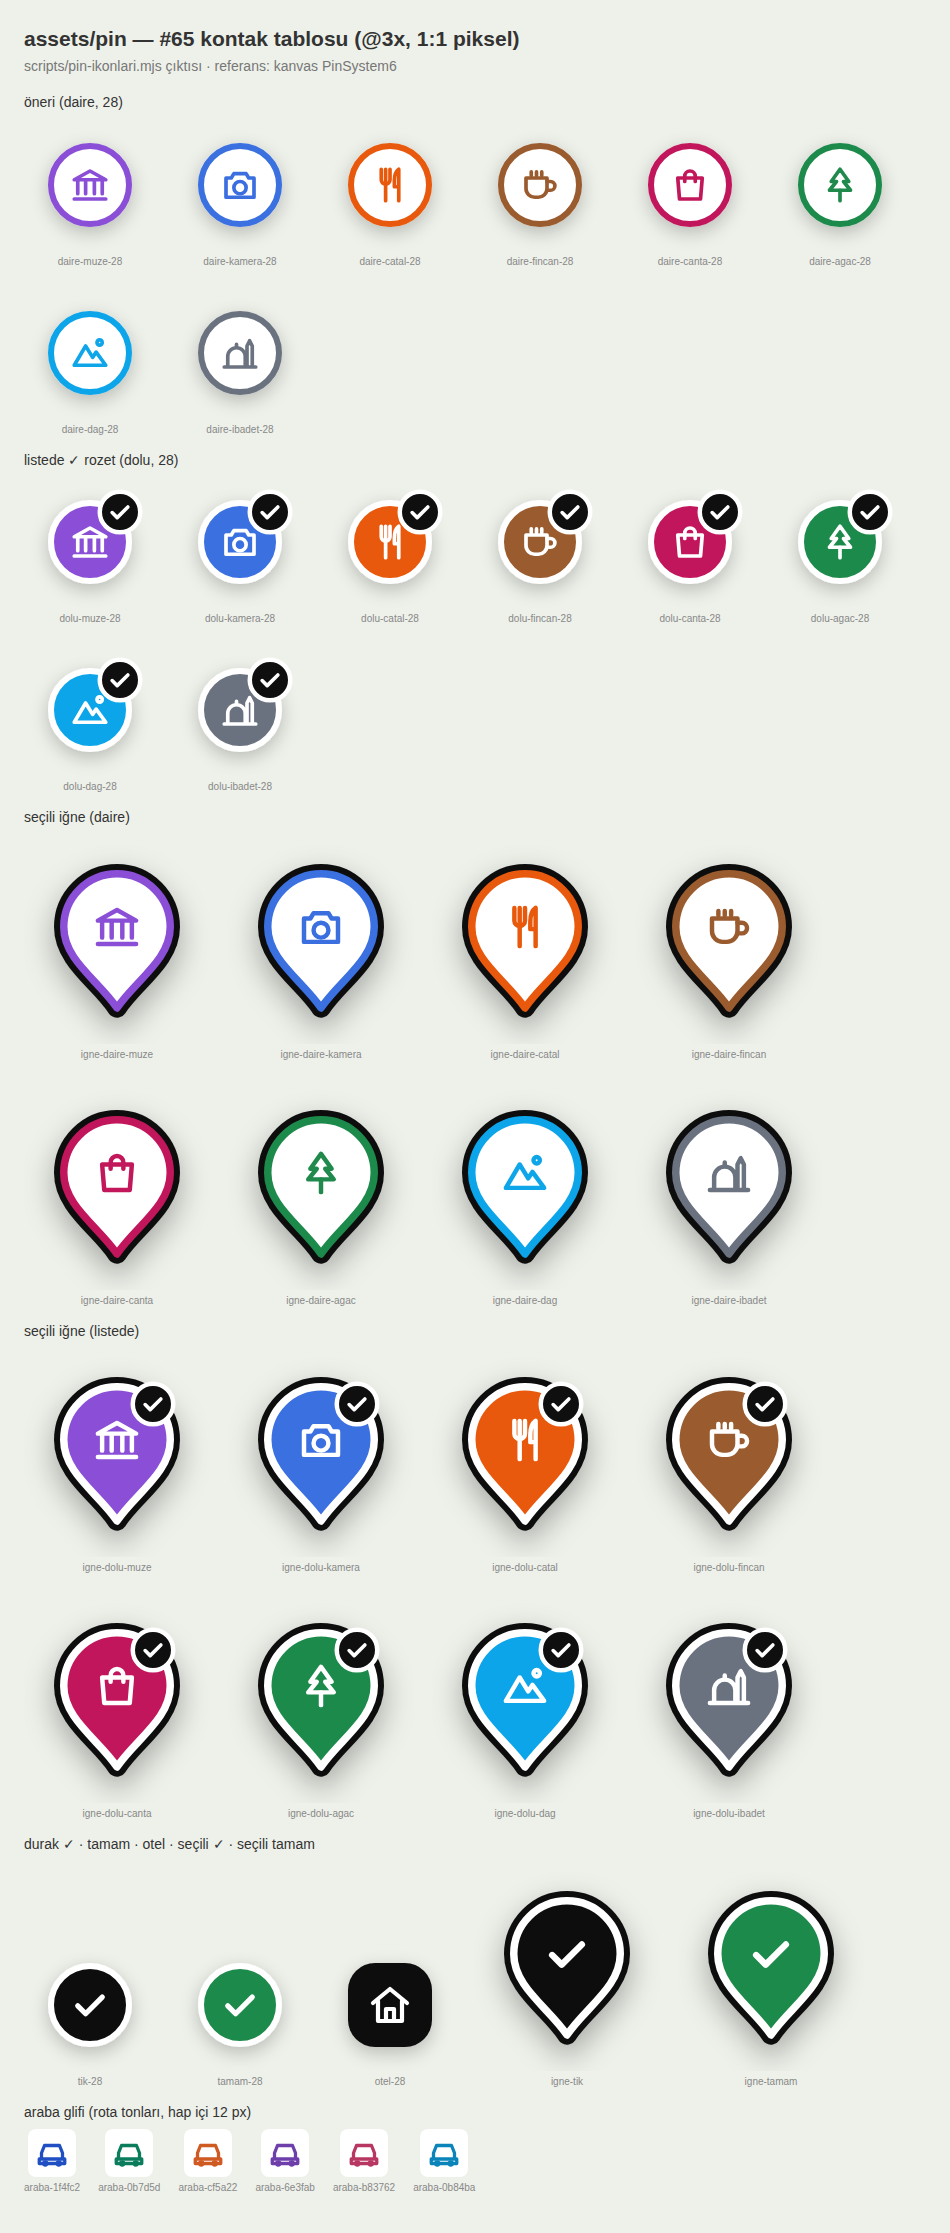
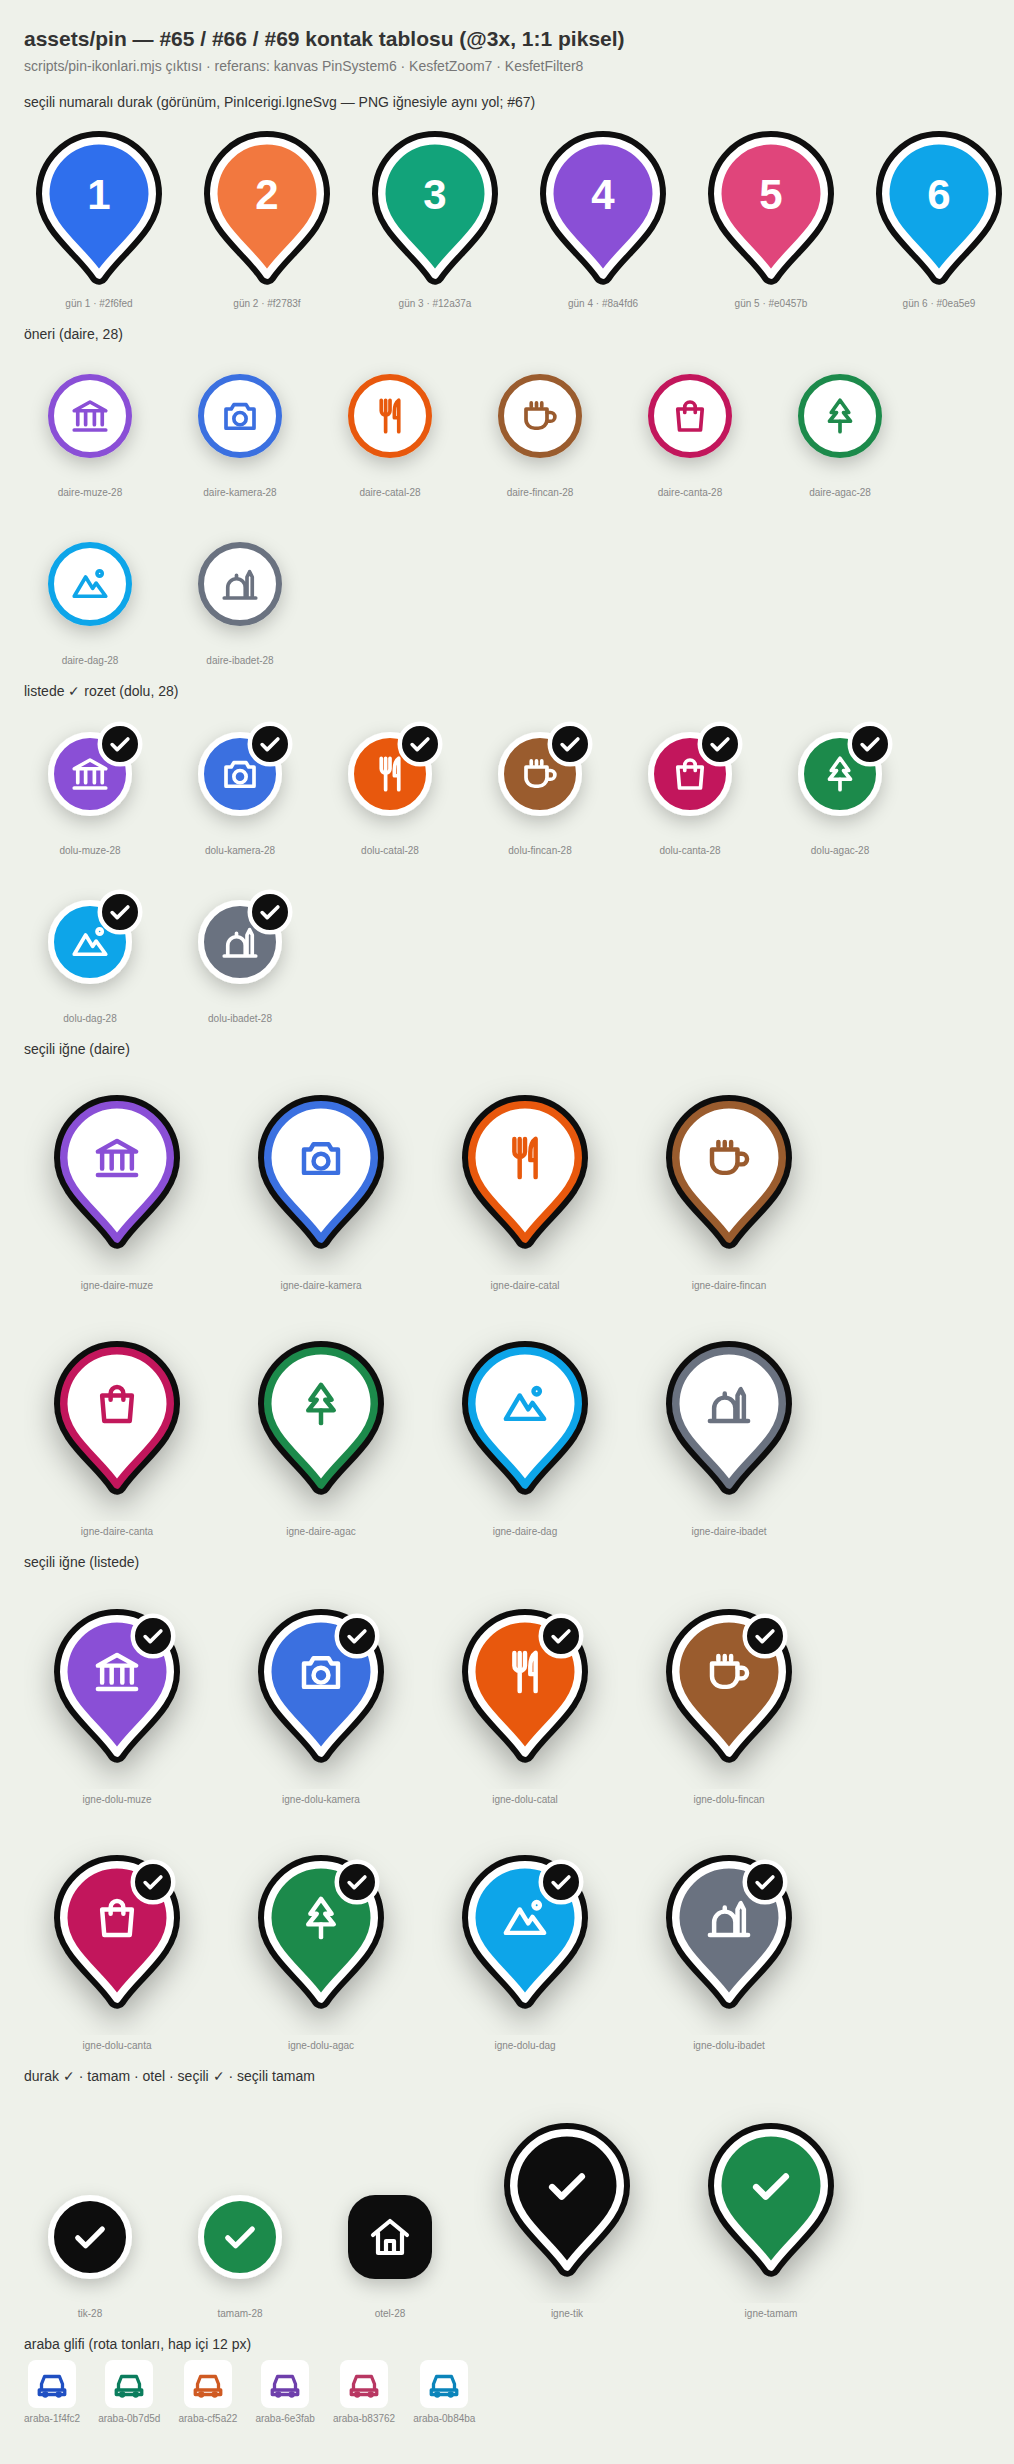
#67 incelemesi: seçili durak iğnesi SVG yol (siyah halka), web'de PNG pinler, çapa görünen uç
- 🔴1 Seçili numaralı durak: PinIcerigi.IgneSvg — PNG iğnesiyle aynı yol (siyah 6,5 + beyaz 2,5 kenar, gün rengi dolgu); kontak tablosuna eklendi
- 🔴2 Web / görünüm yedeği: PNG'si olan pinler (öneri, listede ✓, tamamlanan, otel, seçili iğne) PinIcerigi içinde aynı PNG ile çizilir (PngPin), çapa aynı
- Çapa görünen uçta (dış halka 3,25 px dahil): IGNE_CAPA 0,875; pinCapasi / pinKutusu IGNE_GORUNEN_BOY
- Uzun basma seçili iğnenin baş merkezini ölçer
- Kuş uçuşu (rota gelene kadar) gün renginde (docs/05 §3)
- Eski yorumlar temizlendi (seçili 34, taksi, 40 ok)

Refs #65

Claude-Session: https://claude.ai/code/session_01LSgStVupXYY2fpozAEjjms

diff --git a/src/components/harita/PinIcerigi.tsx b/src/components/harita/PinIcerigi.tsx
@@ -1,11 +1,12 @@
 import { Image, StyleSheet, Text, View, type ImageRequireSource } from 'react-native';
+import Svg, { Path } from 'react-native-svg';
 
 import { Ikon, type IkonAdi } from '@/components/ui/Ikon';
 import { yorumKisa } from '@/lib/pinIkonu';
 import { puanMetni } from '@/lib/puan';
 import { renk, yazi } from '@/theme';
 
-import { etiketYuksekligi, IGNE, kisaAd, KONUM_HALKA, OTEL_KARE, pinCapi } from './geo';
+import { etiketYuksekligi, IGNE, IGNE_GORUNEN_BOY, kisaAd, KONUM_HALKA, OTEL_KARE, pinCapi } from './geo';
 import { PIN_IKONLARI, pinIkonuAnahtari, pinIkonuPng } from './pinIkonlari';
 import type { HaritaPini } from './tipler';
 
@@ -53,6 +54,42 @@ export function pinGorseli(pin: HaritaPini): ImageRequireSource | undefined {
   return PIN_IKONLARI[`${on}daire-${pin.ikon ?? 'kamera'}${son}`];
 }
 
+/** İğne SVG'sinin yerleşim kutusundan dışa payı (siyah halka + küçük gölge). */
+const IGNE_PAY = 6;
+/**
+ * #67 🔴1: iğne yolu — scripts/pin-ikonlari.mjs ile aynı (r 17,75 baş + uca inen damla), önce siyah 6,5 px, üstüne 2,5 px beyaz kenar.
+ * Yerleşim kutusu IGNE.en × IGNE_GORUNEN_BOY (uç + halka); SVG payı dışa taşar.
+ */
+function IgneSvg({ dolgu }: { dolgu: string }) {
+  const kenar = 2.5;
+  const W = IGNE.en + 2 * IGNE_PAY;
+  const H = IGNE.boy + 2 * IGNE_PAY;
+  const cx = W / 2;
+  const bas = IGNE_PAY + IGNE.en / 2;
+  const uc = IGNE_PAY + IGNE.boy;
+  const r = IGNE.en / 2 - kenar / 2;
+  const yol = `M${cx} ${uc} C${cx - 6} ${uc - 9} ${cx - r} ${bas + 11} ${cx - r} ${bas} a${r} ${r} 0 1 1 ${2 * r} 0 C${cx + r} ${bas + 11} ${cx + 6} ${uc - 9} ${cx} ${uc} Z`;
+  return (
+    <Svg width={W} height={H} viewBox={`0 0 ${W} ${H}`} style={s.igneSvg} pointerEvents="none">
+      <Path d={yol} fill={dolgu} stroke={renk.metin} strokeWidth={kenar + 4} strokeLinejoin="round" />
+      <Path d={yol} fill={dolgu} stroke={renk.zemin} strokeWidth={kenar} strokeLinejoin="round" />
+    </Svg>
+  );
+}
+
+/** PNG kenar payları (scripts/pin-ikonlari.mjs PAD / IGNE_PAD). */
+const PNG_PAD = 8;
+const PNG_IGNE_PAD = 12;
+/** #67 🔴2: tam pin PNG'si görünüm içinde — yerleşim kutusu daire (cap) ya da iğne ölçüsünde, pay negatif kenar boşluğuyla taşar. */
+function PngPin({ gorsel, secili, cap, onYuklendi }: { gorsel: ImageRequireSource; secili: boolean; cap: number; onYuklendi?: () => void }) {
+  const pay = secili ? PNG_IGNE_PAD : PNG_PAD;
+  const en = (secili ? IGNE.en : cap) + 2 * pay;
+  const boy = (secili ? IGNE.boy : cap) + 2 * pay;
+  // İğnede görünen uç halkayla IGNE.halka kadar aşağıda: alt kenar boşluğu o kadar az negatif → kutu IGNE_GORUNEN_BOY.
+  const altPay = secili ? -(pay - IGNE.halka) : -pay;
+  return <Image source={gorsel} style={{ width: en, height: boy, marginHorizontal: -pay, marginTop: -pay, marginBottom: altPay }} fadeDuration={0} onLoad={onYuklendi} />;
+}
+
 /**
  * Pin içi ikon önceden üretilmiş PNG (assets/pin, scripts/pin-ikonlari.mjs) — Android işaretçi bitmap'ini alırken
  * SVG'nin çizilmesini beklemek gerekmez; `onYuklendi` görüntü yüklenince PNG anahtarıyla çağrılır. PNG yoksa SVG.
@@ -64,10 +101,10 @@ function PinIkonu({ ad, renk: r, boyut, kalinlik, onYuklendi }: { ad: IkonAdi; r
 }
 
 /**
- * Pin görünümleri (#53, 7 Ekim mockup; #59 §A2 ölçüler): 28 px daire (seçili 34) + ALTINDA kısa ad (+ ★ puan · yorum
+ * Pin görünümleri (#53, 7 Ekim mockup; #59 §A2 ölçüler): 28 px daire (#65: seçili iğne 38 × 46) + ALTINDA kısa ad (+ ★ puan · yorum
  * satırı, `detay`). durak = gün renginde daire + sıra numarası · listede = siyah daire + ✓ · oneri / bos = beyaz daire,
  * kategori renginde kenar ve ikon · seçili = siyah halka · otel = siyah kare + ev · aday (3.3) = beyaz hap "★ puan · ad" ·
- * etiket (#33) = küçük beyaz hap (taksi bacağı süresi). `etiketGizli` çakışma kuralıyla gelir (geo.gizliEtiketler).
+ * etiket (#33) = küçük beyaz hap (araba bacağı süresi). `etiketGizli` çakışma kuralıyla gelir (geo.gizliEtiketler).
  * `onYuklendi(pngAnahtari)`: içerikteki PNG ikon yüklendi (Android bitmap yakalaması için, Harita.native).
  */
 export function PinIcerigi({
@@ -132,18 +169,24 @@ export function PinIcerigi({
   const puan = puanMetni(pin.puan);
   const yorum = yorumKisa(pin.yorumSayisi);
   const kRenk = pin.kategoriRenk ?? renk.metin;
+  const gorsel = pinGorseli(pin);
   return (
     <View style={[s.sutun, durt && s.durtme]} collapsable={false}>
       {yalnizEtiket ? (
         // Daire ayrı image işaretçisinde: dairenin yerinde boşluk; seçili iğnede etiket doğrudan ucun altında (çapa uç).
         pin.secili ? null : <View style={{ width: cap, height: cap }} />
+      ) : gorsel ? (
+        // #67 incelemesi 🔴2: PNG'si olan pin (öneri / listede / tamamlanan / otel) web'de ve native yedekte aynı PNG ile çizilir —
+        // kenar payı (gölge, rozet) negatif kenar boşluğuyla taşar; yerleşim kutusu daire / iğne ölçüsünde kalır (çapa aynı).
+        <PngPin gorsel={gorsel} secili={!!pin.secili} cap={pinCapi(pin)} onYuklendi={() => onYuklendi?.(pinPngAnahtari(pin) ?? '')} />
       ) : pin.secili ? (
-        // #65: seçili numaralı durak iğne biçimi (görünüm): 38 px baş + uç; gövde ucun üstünde, çapa uç (pinCapasi).
+        // #65 / #67 🔴1: seçili numaralı durak iğne biçimi (görünüm) — PNG iğnesiyle aynı yol: siyah 6,5 px alt vuruş + 2,5 px
+        // beyaz kenar, gün renginde dolgu; 14 px numara. Çapa uç (pinCapasi).
         <View style={s.igne} collapsable={false}>
-          <View style={[s.igneBas, { backgroundColor: pin.tamam ? renk.basari : pin.renk }]}>
+          <IgneSvg dolgu={pin.tamam ? renk.basari : pin.renk} />
+          <View style={s.igneBas}>
             {pin.tamam ? <PinIkonu ad="tik" boyut={17} renk={renk.zemin} kalinlik={2.4} onYuklendi={onYuklendi} /> : <Text style={s.igneMetin}>{pin.etiket ?? ''}</Text>}
           </View>
-          <View style={[s.igneUc, { backgroundColor: pin.tamam ? renk.basari : pin.renk }]} />
         </View>
       ) : pin.tamam ? (
         // #42 KK7: tamamlanan durak yeşil + tik.
@@ -191,9 +234,9 @@ const s = StyleSheet.create({
   daire: { borderWidth: 2, borderColor: renk.zemin, alignItems: 'center', justifyContent: 'center' },
   beyaz: { backgroundColor: renk.zemin, borderWidth: 2 },
   // #65: seçili iğne (görünüm): baş 38 (2,5 kenar + 2 siyah halka ≈ kenar 4,5 karma), uç 45° döndürülmüş kare.
-  igne: { width: IGNE.en, height: IGNE.boy, alignItems: 'center' },
-  igneBas: { width: IGNE.en, height: IGNE.en, borderRadius: IGNE.en / 2, borderWidth: 2.5, borderColor: renk.zemin, alignItems: 'center', justifyContent: 'center', zIndex: 1, shadowColor: renk.metin, shadowOffset: { width: 0, height: 4 }, shadowOpacity: 0.3, shadowRadius: 10, elevation: 4 },
-  igneUc: { width: 16, height: 16, marginTop: -11, transform: [{ rotate: '45deg' }], borderBottomRightRadius: 3 },
+  igne: { width: IGNE.en, height: IGNE_GORUNEN_BOY },
+  igneSvg: { position: 'absolute', left: -IGNE_PAY, top: -IGNE_PAY },
+  igneBas: { position: 'absolute', left: 0, top: 0, width: IGNE.en, height: IGNE.en, alignItems: 'center', justifyContent: 'center' },
   igneMetin: { fontFamily: yazi.ekstra, fontSize: 14, color: renk.zemin },
   golge: { shadowColor: renk.metin, shadowOffset: { width: 0, height: 2 }, shadowOpacity: 0.22, shadowRadius: 6, elevation: 3 },
   daireMetin: { fontFamily: yazi.ekstra, fontSize: 13, color: renk.zemin },

diff --git a/src/components/harita/Harita.native.tsx b/src/components/harita/Harita.native.tsx
@@ -2,7 +2,7 @@ import { Fragment, useEffect, useMemo, useRef, useState } from 'react';
 import { PixelRatio, StyleSheet, View, useWindowDimensions } from 'react-native';
 import MapView, { Circle, Marker, Polyline, PROVIDER_GOOGLE } from 'react-native-maps';
 
-import { bolgeHesapla, detayGoster, etiketBolgesi, haritaDolgusu, isaretciImzasi, izlemeGerekli, pinCapasi, pinCapi, pinSecimi, pinZ, zoomDelta } from './geo';
+import { bolgeHesapla, detayGoster, etiketBolgesi, haritaDolgusu, IGNE, isaretciImzasi, izlemeGerekli, pinCapasi, pinCapi, pinSecimi, pinZ, zoomDelta } from './geo';
 import { ACIK_HARITA_STILI } from './haritaStili';
 import { PinIcerigi, pinGorseli, pinPngAnahtari } from './PinIcerigi';
 import { IGNE_CAPA, PIN_IKONLARI } from './pinIkonlari';
@@ -77,7 +77,7 @@ export function Harita({
     sigdirKamera(sigdir.noktalar, { top: sigdir.ust, right: 48, bottom: sigdir.alt, left: 48 });
   }, [sigdir, hazir]);
 
-  // #33: bacak etiketleri (#59: yalnız taksi "12 dk") pin gibi çizilir; çakışma kuralına en düşük öncelikle girer.
+  // #33: bacak etiketleri (#65: yalnız araba "12 dk") pin gibi çizilir; çakışma kuralına en düşük öncelikle girer.
   const tumPinler = useMemo(() => [...pinler, ...bacakEtiketPinleri(cizgiler)], [pinler, cizgiler]);
   const olcu = useMemo(() => ({ genislik: ekran.width, yukseklik: ekran.height }), [ekran.width, ekran.height]);
   // #59 §A: kümeleme yok; yakın pinler üst üste biner (beyaz kenar ayırır, z-sırası pinZ). #61 §2: adı sığmayan öneri
@@ -95,8 +95,9 @@ export function Harita({
     let enYakin: { id: string; d: number } | null = null;
     for (const p of gorunen) {
       if (p.tur === 'etiket' || p.tur === 'konum' || p.tur === 'otel') continue;
-      // Pin dairesi çapanın üstünde değil, merkezinde (pinCapasi daire merkezi).
-      const d = Math.hypot((p.konum.lng - k.longitude) * pxLng, (p.konum.lat - k.latitude) * pxLat);
+      // Daire pinde merkez koordinatta; seçili iğnede baş merkezi ucun (koordinatın) 27 px üstünde (#67 incelemesi).
+      const basY = p.secili ? IGNE.boy - IGNE.en / 2 : 0;
+      const d = Math.hypot((p.konum.lng - k.longitude) * pxLng, (p.konum.lat - k.latitude) * pxLat + basY);
       if (d <= Math.max(28, pinCapi(p) / 2 + 6) && (!enYakin || d < enYakin.d)) enYakin = { id: p.id, d };
     }
     if (enYakin) onPinUzunBas(enYakin.id);

diff --git a/src/components/harita/geo.ts b/src/components/harita/geo.ts
@@ -66,7 +66,7 @@ export function etiketOnceligi(p: HaritaPini): number {
 }
 
 /**
- * Daire çapı (px) — PinIcerigi ile aynı sayılar. #59 §A2: 28 px, seçili 34 px (siyah halka dairenin kenarıdır).
+ * Daire çapı (px) — PinIcerigi ile aynı sayılar. #59 §A2: 28 px; #65: seçili iğne 38 px baş (IGNE).
  * #61 §5: seçili gün dışındaki (soluk) durak pini numarasız küçük nokta, 20 px.
  */
 export function pinCapi(p: HaritaPini): number {
@@ -78,10 +78,12 @@ export function pinCapi(p: HaritaPini): number {
  * #65 (docs/05 §2): seçili pin iğne (damla) biçimi 38 × 46 px; çapa iğnenin UCU (konum), gövde ucun üstünde; ad etiketi
  * ucun 4 px altında. Öneri / listede / tamamlandı PNG, numaralı durak görünüm.
  */
-export const IGNE = { en: 38, boy: 46, etiketPayi: 4 } as const;
+export const IGNE = { en: 38, boy: 46, etiketPayi: 4, halka: 3.25 } as const;
+/** İğnenin görünen yüksekliği (yol + dış halkanın uçtan taşması). */
+export const IGNE_GORUNEN_BOY = IGNE.boy + IGNE.halka;
 /** Pinin ekran kutusu (engel): daire konumun ortasında; seçili iğne konumun üstünde. */
 export function pinKutusu(p: HaritaPini, cx: number, cy: number): { x1: number; y1: number; x2: number; y2: number } {
-  if (p.secili && p.tur !== 'etiket' && p.tur !== 'konum' && p.tur !== 'aday') return { x1: cx - IGNE.en / 2, y1: cy - IGNE.boy, x2: cx + IGNE.en / 2, y2: cy };
+  if (p.secili && p.tur !== 'etiket' && p.tur !== 'konum' && p.tur !== 'aday') return { x1: cx - IGNE.en / 2, y1: cy - IGNE_GORUNEN_BOY, x2: cx + IGNE.en / 2, y2: cy };
   const r = (p.tur === 'otel' ? OTEL_KARE : p.tur === 'konum' ? KONUM_HALKA : pinCapi(p)) / 2;
   return { x1: cx - r, y1: cy - r, x2: cx + r, y2: cy + r };
 }
@@ -237,7 +239,7 @@ export function pinZ(p: HaritaPini): number {
  * ucu (iğne + 4 px + etiket kutusu).
  */
 export function pinCapasi(p: HaritaPini, detay = false): { x: number; y: number } {
-  if (p.secili) return { x: 0.5, y: IGNE.boy / (IGNE.boy + IGNE.etiketPayi + etiketYuksekligi(detay)) };
+  if (p.secili) return { x: 0.5, y: IGNE_GORUNEN_BOY / (IGNE_GORUNEN_BOY + IGNE.etiketPayi + etiketYuksekligi(detay)) };
   const d = pinCapi(p);
   return { x: 0.5, y: d / 2 / (d + 2 + etiketYuksekligi(detay)) };
 }

diff --git a/src/components/harita/rota.ts b/src/components/harita/rota.ts
@@ -1,4 +1,4 @@
-// #33: rota çizgilerinden bacak etiketi pinleri ("🚕 12 dk" hapı, bacağın ortasında). #59 §C: yalnız taksi bacağı
+// #33: rota çizgilerinden bacak etiketi pinleri ("araba 12 dk" hapı, bacağın ortasında). #59 §C / #65: yalnız araba bacağı
 // hap taşır (yürüyüş süreleri panelde); yön okları ayrı işaretçi olarak çizilir.
 import { cizgiOrtasi } from '@/lib/polyline';
 
@@ -26,7 +26,7 @@ export const OK_PIN_PAYI_PX = 20;
 /**
  * Seçili günün yürüyüş bacaklarına (kesik/ince/araba olmayan, soluk olmayan çizgiler) ~24 px aralıkla ok yerleştirir (#65).
  * Hesap ekran pikselinde (bölge yalnız ölçek verir; merkez önemsiz → kaydırmada sonuç değişmez, yalnız zoom adımında
- * yeniden hesaplanır). Pinlerin 20 px yakınına ok konmaz. Toplam 40'ı aşarsa aralık orantılı büyütülür.
+ * yeniden hesaplanır). Pinlerin 20 px yakınına ok konmaz. Toplam 80'i (OK_EN_FAZLA) aşarsa seyreltilir.
  */
 export function yonOklari(cizgiler: HaritaCizgisi[], pinler: HaritaPini[], bolge: HaritaBolgesi | null, ekran: { genislik: number; yukseklik: number }): YonOku[] {
   if (!bolge || bolge.latDelta <= 0 || bolge.lngDelta <= 0) return [];

diff --git a/src/components/harita/__tests__/geo.test.ts b/src/components/harita/__tests__/geo.test.ts
@@ -63,8 +63,8 @@ describe('geo', () => {
     // #59: 28 px daire (+2 boşluk +16 etiket); seçili 34 px (halka kenarda).
     expect(c.y).toBeCloseTo(14 / 46);
     expect(pinCapasi({ id: 'x', konum: roma, renk: '#000', tur: 'durak' }, true).y).toBeCloseTo(14 / 60);
-    // #65: seçili iğne 38 × 46, çapa uç; etiket ucun 4 px altında.
-    expect(pinCapasi({ id: 'x', konum: roma, renk: '#000', tur: 'durak', secili: true }).y).toBeCloseTo(46 / 66);
+    // #65: seçili iğne 38 × 46 (+ 3,25 px dış halka → görünen uç 49,25), çapa görünen uç; etiket ucun 4 px altında.
+    expect(pinCapasi({ id: 'x', konum: roma, renk: '#000', tur: 'durak', secili: true }).y).toBeCloseTo(49.25 / 69.25);
   });
 
   it('deltaZoom zoomDelta\'nın tersidir; bolgeHesapla zoom üretir', () => {

diff --git a/src/components/harita/pinIkonlari.ts b/src/components/harita/pinIkonlari.ts
@@ -73,7 +73,7 @@ export function pinIkonuAnahtari(ikon: string, renk: string): string {
 }
 
 /** #65: iğne (seçili) görselinin çapası — PNG içinde ucun konumu (kenar payı dahil). */
-export const IGNE_CAPA = { x: 0.5, y: 0.8285714285714286 } as const;
+export const IGNE_CAPA = { x: 0.5, y: 0.875 } as const;
 
 /** Pin içi ikonun PNG'si; üretilmemiş (ikon, renk) çifti için undefined → SVG'ye düşülür. */
 export function pinIkonuPng(ikon: string, renk: string): ImageRequireSource | undefined {

diff --git a/src/features/program/haritaVerisi.ts b/src/features/program/haritaVerisi.ts
@@ -170,7 +170,8 @@ export function programCizgileri(secenek: {
       return {
         id: `${kimlik}:kus`,
         noktalar: [a, z],
-        renk: rengi,
+        // docs/05 §3: rota gelene kadar GÜN renginde (rota tonu değil), 3 dp, kesikli.
+        renk: gunRengi(g.index),
         opaklik,
         // Gerçek yol gelene kadar kuş uçuşu: ince kesikli (docs/05 §3).
         kesik: true,
